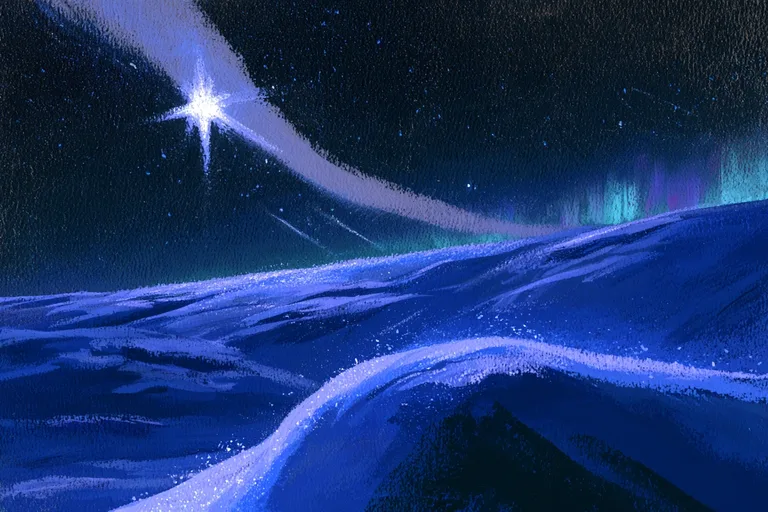
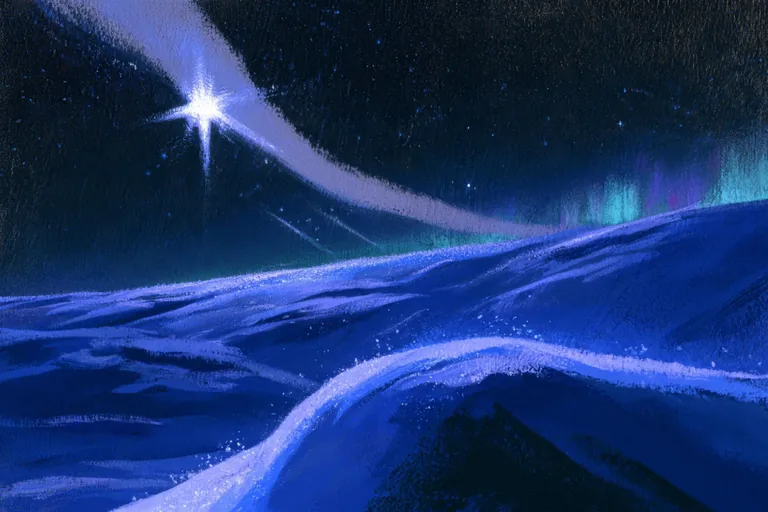
New background painting; drifts textured with the painting's own snow
The book's 3D drift and the robot's drift now use brushwork and crest glitter
cut from the background, with flat painterly light from the star instead of
plastic shading.

Claude-Session: https://claude.ai/code/session_01XP8uEUBfh4xcbHKibGdJmp

diff --git a/landing/book.js b/landing/book.js
@@ -63,41 +63,6 @@ glow.position.set(0, 0.6, 0.9);
 scene.add(glow);
 
 /* ───────── Snow drift ───────── */
-function strokeTexture() {
-  const s = 1024;
-  const c = document.createElement('canvas');
-  c.width = c.height = s;
-  const g = c.getContext('2d');
-  g.fillStyle = '#c3cbff';
-  g.fillRect(0, 0, s, s);
-  const tones = ['#a6b1ff', '#d9deff', '#8c99f5', '#eef0ff', '#b4bdff'];
-  g.lineCap = 'round';
-  for (let i = 0; i < 2600; i++) {
-    const x = Math.random() * s, y = Math.random() * s;
-    const len = 20 + Math.random() * 70;
-    const a = -0.25 + Math.random() * 0.35;          // mostly horizontal, like the painting
-    g.strokeStyle = tones[(Math.random() * tones.length) | 0];
-    g.globalAlpha = 0.25 + Math.random() * 0.35;
-    g.lineWidth = 2 + Math.random() * 6;
-    g.beginPath();
-    g.moveTo(x, y);
-    g.quadraticCurveTo(x + len * 0.5, y + Math.sin(a) * len * 0.5 - 6, x + Math.cos(a) * len, y + Math.sin(a) * len);
-    g.stroke();
-  }
-  g.globalAlpha = 1;
-  for (let i = 0; i < 1400; i++) {                    // glitter specks
-    g.fillStyle = Math.random() < 0.7 ? '#ffffff' : '#dfe4ff';
-    const r = Math.random() * 1.8 + 0.4;
-    g.beginPath();
-    g.arc(Math.random() * s, Math.random() * s, r, 0, Math.PI * 2);
-    g.fill();
-  }
-  const tex = new THREE.CanvasTexture(c);
-  tex.colorSpace = THREE.SRGBColorSpace;
-  tex.anisotropy = 4;
-  return tex;
-}
-
 // cheap value noise for lumpy snow
 function hash(x, y) { const n = Math.sin(x * 127.1 + y * 311.7) * 43758.5453; return n - Math.floor(n); }
 function noise(x, y) {
@@ -109,7 +74,6 @@ function noise(x, y) {
 const smooth = (a, b, x) => { const t = Math.min(1, Math.max(0, (x - a) / (b - a))); return t * t * (3 - 2 * t); };
 
 const BOOK_YAW = 0.22;
-const snowTex = strokeTexture();
 
 // height of the snow drift at (x, z) — shared by the drift and the slot left behind
 function driftHeight(x, z) {
@@ -128,41 +92,82 @@ function driftHeight(x, z) {
   return h;
 }
 
+// Textures cut from the background painting itself, so the drift shares its brushwork:
+// a dark brushy snow body, and the glittering lavender crest the painted ridges have.
+const texLoader = new THREE.TextureLoader();
+function paintTexture(url) {
+  const t = texLoader.load(url);
+  t.colorSpace = THREE.SRGBColorSpace;
+  t.wrapS = t.wrapT = THREE.MirroredRepeatWrapping;
+  t.anisotropy = 4;
+  return t;
+}
+const bodyTex = paintTexture('assets/snow-body.webp');
+const crestTex = paintTexture('assets/snow-crest.webp');
+
 function buildDrift() {
   const geo = new THREE.PlaneGeometry(3.8, 2.6, 190, 130);
   geo.rotateX(-Math.PI / 2);
   const pos = geo.attributes.position;
-  const colors = new Float32Array(pos.count * 4);
-  const lo = new THREE.Color('#2443c4'), hi = new THREE.Color('#b9c3ff'), tmp = new THREE.Color();
+  const uv = geo.attributes.uv;
+  const fade = new Float32Array(pos.count);
 
   for (let i = 0; i < pos.count; i++) {
     const x = pos.getX(i), z = pos.getZ(i);
-    const h = driftHeight(x, z);
-    pos.setY(i, h);
-
+    pos.setY(i, driftHeight(x, z));
+    // strokes run mostly horizontally, as in the painting
+    uv.setXY(i, x / 1.7 + 0.3, z / 0.65 + 0.2);
     // organic, noisy footprint that melts into the painted snow
     const ang = Math.atan2(z, x);
     const edge = 0.8 + 0.35 * noise(Math.cos(ang) * 2 + 5, Math.sin(ang) * 2 + 5);
     const r = Math.hypot(x / 1.5, z / 0.95) / edge;
-    const alpha = 1 - smooth(0.5, 0.98, r);
-    tmp.copy(lo).lerp(hi, Math.min(1, 0.12 + h * 3.2));
-    colors.set([tmp.r, tmp.g, tmp.b, alpha], i * 4);
+    fade[i] = 1 - smooth(0.5, 0.98, r);
   }
-  geo.setAttribute('color', new THREE.BufferAttribute(colors, 4));
   geo.computeVertexNormals();
 
-  const mat = new THREE.MeshStandardMaterial({
-    map: snowTex,
-    vertexColors: true,
-    transparent: true,
-    roughness: 1,
-    metalness: 0,
-    depthWrite: true,
-  });
-  const mesh = new THREE.Mesh(geo, mat);
-  mesh.receiveShadow = true;
-  mesh.renderOrder = 2;
-  return mesh;
+  // flat, painterly light from the star (upper left): no specular, just light and shadow sides
+  const L = new THREE.Vector3(-0.55, 0.75, 0.45).normalize();
+  const COLS = 191, ROWS = 131;   // PlaneGeometry(…, 190, 130) vertices per row / column
+  const nrm = geo.attributes.normal, n = new THREE.Vector3();
+  const body = new Float32Array(pos.count * 4);
+  const crest = new Float32Array(pos.count * 4);
+  for (let i = 0; i < pos.count; i++) {
+    n.fromBufferAttribute(nrm, i);
+    const lit = Math.max(0, n.dot(L));
+    const shade = 0.55 + 0.6 * lit;
+    body.set([shade, shade, shade * 1.03, fade[i]], i * 4);
+    const h = pos.getY(i);
+    // ridges = where the surface bulges above its neighbours (positive curvature)
+    const col = i % COLS, row = (i / COLS) | 0;
+    let ridge = 0;
+    if (col > 2 && col < COLS - 3 && row > 2 && row < ROWS - 3) {
+      const avg = (pos.getY(i - 3) + pos.getY(i + 3) + pos.getY(i - 3 * COLS) + pos.getY(i + 3 * COLS)) / 4;
+      ridge = smooth(0.002, 0.014, h - avg);
+    }
+    const c = Math.max(ridge * (0.4 + 0.6 * lit), smooth(0.8, 0.97, lit) * smooth(0.1, 0.2, h) * 0.6)
+      * (0.65 + 0.5 * noise(pos.getX(i) * 7, pos.getZ(i) * 7));
+    crest.set([1, 1, 1, Math.min(1, c) * fade[i]], i * 4);
+  }
+  geo.setAttribute('color', new THREE.BufferAttribute(body, 4));
+
+  const group = new THREE.Group();
+  const bodyMesh = new THREE.Mesh(geo, new THREE.MeshBasicMaterial({
+    map: bodyTex, vertexColors: true, transparent: true, depthWrite: true,
+  }));
+  bodyMesh.renderOrder = 2;
+  group.add(bodyMesh);
+
+  const crestGeo = geo.clone();
+  crestGeo.setAttribute('color', new THREE.BufferAttribute(crest, 4));
+  const cuv = crestGeo.attributes.uv;
+  for (let i = 0; i < cuv.count; i++) cuv.setXY(i, pos.getX(i) / 0.35, pos.getZ(i) / 0.2);
+  const crestMesh = new THREE.Mesh(crestGeo, new THREE.MeshBasicMaterial({
+    map: crestTex, vertexColors: true, transparent: true, depthWrite: false,
+    polygonOffset: true, polygonOffsetFactor: -1,
+  }));
+  crestMesh.renderOrder = 2.5;
+  group.add(crestMesh);
+  return group;
 }
 scene.add(buildDrift());
 

diff --git a/landing/nrk.js b/landing/nrk.js
@@ -105,11 +105,15 @@
   // value noise for a lumpy top edge
   const hash = (x) => { const n = Math.sin(x * 127.1) * 43758.5453; return n - Math.floor(n); };
   const noise = (x) => { const i = Math.floor(x), f = x - i, u = f * f * (3 - 2 * f); return hash(i) + (hash(i + 1) - hash(i)) * u; };
-  const rnd = (a, b) => a + Math.random() * (b - a);
+
+  // textures cut from the background painting: brushy snow body + glittering crest
+  const load = (src) => new Promise((res) => { const i = new Image(); i.onload = () => res(i); i.onerror = () => res(null); i.src = src; });
+  let tex = null;
 
   function paint() {
     const w = snow.clientWidth, h = snow.clientHeight;
-    if (!w || !h) return;
+    if (!w || !h || !tex) return;
+    const [body, crest] = tex;
     const dpr = Math.min(devicePixelRatio || 1, 2);
     snow.width = Math.round(w * dpr);
     snow.height = Math.round(h * dpr);
@@ -124,48 +128,54 @@
       const wheels = Math.exp(-(((u - 0.24) / 0.09) ** 2)) * 0.35 + Math.exp(-(((u - 0.76) / 0.1) ** 2)) * 0.25;
       return h * (1 - (0.55 * mound + wheels * mound + (noise(u * 9) - 0.5) * 0.14 * mound));
     };
-    ctx.save();
-    ctx.beginPath();
-    ctx.moveTo(0, h);
-    for (let x = 0; x <= w; x += 2) ctx.lineTo(x, top(x));
-    ctx.lineTo(w, h);
-    ctx.closePath();
-    const fill = ctx.createLinearGradient(0, h * 0.2, 0, h);
-    fill.addColorStop(0, '#6074e6');
-    fill.addColorStop(0.45, '#2e48c6');
-    fill.addColorStop(1, '#152a8c');
-    ctx.fillStyle = fill;
-    ctx.fill();
-    ctx.clip();
+    const outline = () => {
+      ctx.beginPath();
+      ctx.moveTo(0, h);
+      for (let x = 0; x <= w; x += 2) ctx.lineTo(x, top(x));
+      ctx.lineTo(w, h);
+      ctx.closePath();
+    };
 
-    // brush strokes, mostly horizontal, like the painting
-    const tones = ['#8796f5', '#4d66e0', '#aeb8ff', '#2c45c4', '#6c80ee'];
-    ctx.lineCap = 'round';
-    for (let i = 0; i < 520; i++) {
-      const x = rnd(-20, w), y = rnd(0, h);
-      const len = rnd(14, 60), a = rnd(-0.18, 0.12);
-      ctx.strokeStyle = tones[(Math.random() * tones.length) | 0];
-      ctx.globalAlpha = rnd(0.15, 0.45) * (1 - y / h * 0.6);
-      ctx.lineWidth = rnd(1.5, 4.5);
-      ctx.beginPath();
-      ctx.moveTo(x, y);
-      ctx.quadraticCurveTo(x + len / 2, y - 3, x + Math.cos(a) * len, y + Math.sin(a) * len);
-      ctx.stroke();
-    }
-    // bright crest along the top edge
-    ctx.globalAlpha = 0.45;
-    ctx.strokeStyle = '#c9d0ff';
-    ctx.lineWidth = 2.5;
-    ctx.beginPath();
-    for (let x = 0; x <= w; x += 3) ctx[x ? 'lineTo' : 'moveTo'](x, top(x) + 1.5);
-    ctx.stroke();
-    // glitter
-    for (let i = 0; i < 260; i++) {
-      ctx.globalAlpha = rnd(0.4, 1);
-      ctx.fillStyle = '#ffffff';
-      ctx.beginPath();
-      ctx.arc(rnd(0, w), rnd(0, h), rnd(0.4, 1.4), 0, Math.PI * 2);
-      ctx.fill();
+    // body: the painting's own dark brushwork
+    ctx.save();
+    outline();
+    ctx.clip();
+    if (body) ctx.drawImage(body, 0, 0, body.width, body.height, -w * 0.05, h * 0.05, w * 1.1, h * 1.1);
+    // the side away from the star sinks into shadow
+    const shade = ctx.createLinearGradient(0, 0, w, 0);
+    shade.addColorStop(0, 'rgba(10, 20, 80, 0)');
+    shade.addColorStop(1, 'rgba(10, 20, 80, 0.35)');
+    ctx.fillStyle = shade;
+    ctx.fillRect(0, 0, w, h);
+
+    // crest: glittering lavender snow along the top edge, soft towards the body, like the painted ridges
+    if (crest) {
+      const band = document.createElement('canvas');
+      band.width = snow.width; band.height = snow.height;
+      const b = band.getContext('2d');
+      b.setTransform(dpr, 0, 0, dpr, 0, 0);
+      b.fillStyle = b.createPattern(crest, 'repeat');
+      b.beginPath();
+      b.moveTo(0, h);
+      for (let x = 0; x <= w; x += 2) b.lineTo(x, top(x));
+      b.lineTo(w, h);
+      b.closePath();
+      b.fill();
+      // carve away everything below a lumpy line under the top edge, with a blurred edge
+      b.globalCompositeOperation = 'destination-out';
+      b.filter = `blur(${Math.max(3, h * 0.05)}px)`;
+      b.fillStyle = '#000';
+      b.beginPath();
+      b.moveTo(-20, h + 40);
+      for (let x = -20; x <= w + 20; x += 3) b.lineTo(x, top(Math.min(w, Math.max(0, x))) + h * (0.1 + 0.16 * noise(x / w * 7 + 3)));
+      b.lineTo(w + 20, h + 40);
+      b.closePath();
+      b.fill();
+      ctx.setTransform(1, 0, 0, 1, 0, 0);
+      ctx.globalAlpha = 0.85;
+      ctx.drawImage(band, 0, 0);
+      ctx.globalAlpha = 1;
+      ctx.setTransform(dpr, 0, 0, dpr, 0, 0);
     }
     ctx.restore();
 
@@ -173,20 +183,21 @@
     ctx.globalCompositeOperation = 'destination-in';
     const fadeX = ctx.createLinearGradient(0, 0, w, 0);
     fadeX.addColorStop(0, 'rgba(0,0,0,0)');
-    fadeX.addColorStop(0.14, 'rgba(0,0,0,1)');
-    fadeX.addColorStop(0.86, 'rgba(0,0,0,1)');
+    fadeX.addColorStop(0.16, 'rgba(0,0,0,1)');
+    fadeX.addColorStop(0.84, 'rgba(0,0,0,1)');
     fadeX.addColorStop(1, 'rgba(0,0,0,0)');
-    ctx.globalAlpha = 1;
     ctx.fillStyle = fadeX;
     ctx.fillRect(0, 0, w, h);
     const fadeY = ctx.createLinearGradient(0, 0, 0, h);
     fadeY.addColorStop(0, 'rgba(0,0,0,1)');
     fadeY.addColorStop(0.75, 'rgba(0,0,0,1)');
-    fadeY.addColorStop(1, 'rgba(0,0,0,0.2)');
+    fadeY.addColorStop(1, 'rgba(0,0,0,0.3)');
     ctx.fillStyle = fadeY;
     ctx.fillRect(0, 0, w, h);
     ctx.globalCompositeOperation = 'source-over';
   }
+
+  Promise.all([load('assets/snow-body.webp'), load('assets/snow-crest.webp')]).then((t) => { tex = t; paint(); });
 
   let raf = 0;
   new ResizeObserver(() => { cancelAnimationFrame(raf); raf = requestAnimationFrame(paint); }).observe(snow);
